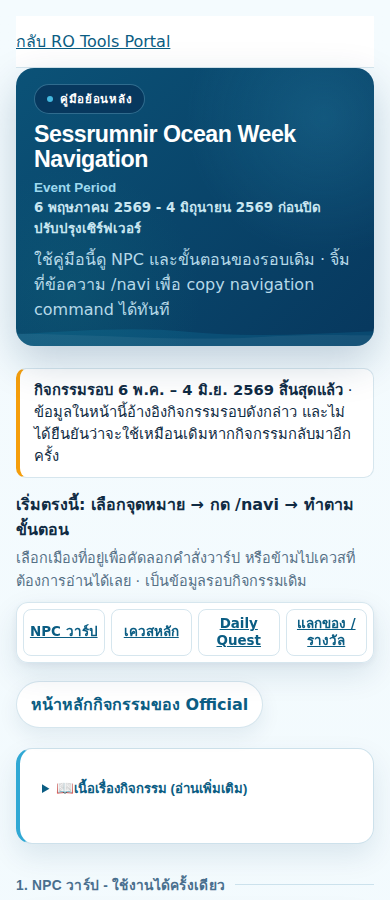
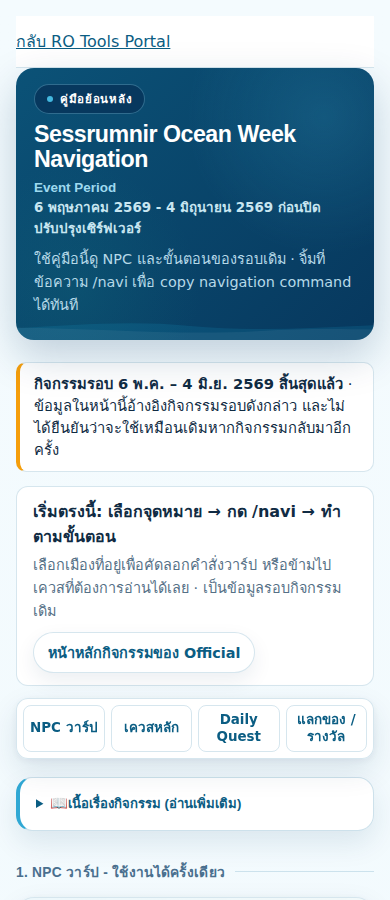
Tidy start area: one start panel, full-width category bar, two-level hero text, slim closed story card
Presentation only; guide data, /navi commands and scripts unchanged.

Changed region(s): [[0.0308, 0.2489, 0.9538, 1.0], [0.0308, 0.3422, 0.0615, 0.3733]]

diff --git a/docs/index.html b/docs/index.html
@@ -1468,16 +1468,24 @@
     .archive-notice strong { font-weight: 800; }
 
     /* start cue: short intro, then a sticky category bar that stays reachable on the long page */
-    .first-run-intro { margin: 0 0 10px; }
+    .start-panel { display: flex; align-items: center; justify-content: space-between; gap: 14px; margin: 0 0 12px; padding: 12px 16px; border: 1px solid var(--line); border-radius: 12px; background: var(--card); }
     .first-run-intro strong { display: block; color: var(--ink); }
     .first-run-intro p { margin: 4px 0 0; color: var(--muted); font-size: .9rem; }
-    nav.first-run-jumps { position: sticky; top: 0; z-index: 20; display: flex; gap: 8px; margin: 0 0 16px; padding: 8px 10px; overflow-x: auto; border: 1px solid var(--line); border-radius: 12px; background: rgba(255, 255, 255, .96); box-shadow: var(--shadow); -webkit-overflow-scrolling: touch; }
-    nav.first-run-jumps a { flex: 0 0 auto; white-space: nowrap; }
+    .start-panel .event-link { flex: 0 0 auto; padding: 8px 14px; font-size: .9rem; white-space: nowrap; }
+    nav.first-run-jumps { position: sticky; top: 0; z-index: 20; display: grid; grid-template-columns: repeat(4, minmax(0, 1fr)); gap: 8px; margin: 0 0 18px; padding: 8px; border: 1px solid var(--line); border-radius: 12px; background: rgba(255, 255, 255, .96); box-shadow: var(--shadow); }
+    nav.first-run-jumps a { justify-content: center; text-align: center; text-decoration: none; }
+    nav.first-run-jumps a:hover { background: var(--ocean-soft); }
     .section-title[id], [id^="ocean-"] { scroll-margin-top: 84px; }
     @media (max-width: 520px) {
-      nav.first-run-jumps { display: grid; grid-template-columns: repeat(4, minmax(0, 1fr)); gap: 6px; padding: 6px; overflow: visible; }
-      nav.first-run-jumps a { flex: none; min-width: 0; justify-content: center; padding: 6px 4px; font-size: .84rem; line-height: 1.2; text-align: center; white-space: normal; }
+      .start-panel { flex-direction: column; align-items: flex-start; gap: 10px; }
+      nav.first-run-jumps { gap: 6px; padding: 6px; }
+      nav.first-run-jumps a { min-width: 0; padding: 6px 4px; font-size: .84rem; line-height: 1.2; }
     }
+
+    /* hero: one subtitle size; closed story card is a slim row */
+    header .subtitle { font-size: .9rem; }
+    .event-story:not([open]) { padding: 4px 16px; }
+    .event-story:not([open]) .event-story-label { margin-bottom: 0; }
   </style>
 </head>
 <body>
@@ -1497,17 +1505,16 @@
 
     <p class="archive-notice"><strong>กิจกรรมรอบ 6 พ.ค. – 4 มิ.ย. 2569 สิ้นสุดแล้ว</strong> · ข้อมูลในหน้านี้อ้างอิงกิจกรรมรอบดังกล่าว และไม่ได้ยืนยันว่าจะใช้เหมือนเดิมหากกิจกรรมกลับมาอีกครั้ง</p>
 
-    <div class="first-run-intro">
-      <strong>เริ่มตรงนี้: เลือกจุดหมาย → กด /navi → ทำตามขั้นตอน</strong>
-      <p>เลือกเมืองที่อยู่เพื่อคัดลอกคำสั่งวาร์ป หรือข้ามไปเควสที่ต้องการอ่านได้เลย · เป็นข้อมูลรอบกิจกรรมเดิม</p>
+    <div class="start-panel">
+      <div class="first-run-intro">
+        <strong>เริ่มตรงนี้: เลือกจุดหมาย → กด /navi → ทำตามขั้นตอน</strong>
+        <p>เลือกเมืองที่อยู่เพื่อคัดลอกคำสั่งวาร์ป หรือข้ามไปเควสที่ต้องการอ่านได้เลย · เป็นข้อมูลรอบกิจกรรมเดิม</p>
+      </div>
+      <a class="event-link" href="https://ro.gnjoy.in.th/sessrumnir-ocean-week-event/" target="_blank" rel="noopener noreferrer">หน้าหลักกิจกรรมของ Official</a>
     </div>
     <nav class="first-run-jumps" aria-label="เริ่มใช้คู่มือ">
       <a href="#ocean-warp">NPC วาร์ป</a><a href="#ocean-main-quest">เควสหลัก</a><a href="#ocean-daily">Daily Quest</a><a href="#ocean-exchange">แลกของ / รางวัล</a>
     </nav>
-
-    <div class="mini-actions">
-      <a class="event-link" href="https://ro.gnjoy.in.th/sessrumnir-ocean-week-event/" target="_blank" rel="noopener noreferrer">หน้าหลักกิจกรรมของ Official</a>
-    </div>
 
     <details class="event-story first-run-lore">
       <summary class="event-story-label">เนื้อเรื่องกิจกรรม (อ่านเพิ่มเติม)</summary>

diff --git a/qa/ui-polish/ui-polish.css b/qa/ui-polish/ui-polish.css
@@ -14,13 +14,21 @@
     .archive-notice strong { font-weight: 800; }
 
     /* start cue: short intro, then a sticky category bar that stays reachable on the long page */
-    .first-run-intro { margin: 0 0 10px; }
+    .start-panel { display: flex; align-items: center; justify-content: space-between; gap: 14px; margin: 0 0 12px; padding: 12px 16px; border: 1px solid var(--line); border-radius: 12px; background: var(--card); }
     .first-run-intro strong { display: block; color: var(--ink); }
     .first-run-intro p { margin: 4px 0 0; color: var(--muted); font-size: .9rem; }
-    nav.first-run-jumps { position: sticky; top: 0; z-index: 20; display: flex; gap: 8px; margin: 0 0 16px; padding: 8px 10px; overflow-x: auto; border: 1px solid var(--line); border-radius: 12px; background: rgba(255, 255, 255, .96); box-shadow: var(--shadow); -webkit-overflow-scrolling: touch; }
-    nav.first-run-jumps a { flex: 0 0 auto; white-space: nowrap; }
+    .start-panel .event-link { flex: 0 0 auto; padding: 8px 14px; font-size: .9rem; white-space: nowrap; }
+    nav.first-run-jumps { position: sticky; top: 0; z-index: 20; display: grid; grid-template-columns: repeat(4, minmax(0, 1fr)); gap: 8px; margin: 0 0 18px; padding: 8px; border: 1px solid var(--line); border-radius: 12px; background: rgba(255, 255, 255, .96); box-shadow: var(--shadow); }
+    nav.first-run-jumps a { justify-content: center; text-align: center; text-decoration: none; }
+    nav.first-run-jumps a:hover { background: var(--ocean-soft); }
     .section-title[id], [id^="ocean-"] { scroll-margin-top: 84px; }
     @media (max-width: 520px) {
-      nav.first-run-jumps { display: grid; grid-template-columns: repeat(4, minmax(0, 1fr)); gap: 6px; padding: 6px; overflow: visible; }
-      nav.first-run-jumps a { flex: none; min-width: 0; justify-content: center; padding: 6px 4px; font-size: .84rem; line-height: 1.2; text-align: center; white-space: normal; }
+      .start-panel { flex-direction: column; align-items: flex-start; gap: 10px; }
+      nav.first-run-jumps { gap: 6px; padding: 6px; }
+      nav.first-run-jumps a { min-width: 0; padding: 6px 4px; font-size: .84rem; line-height: 1.2; }
     }
+
+    /* hero: one subtitle size; closed story card is a slim row */
+    header .subtitle { font-size: .9rem; }
+    .event-story:not([open]) { padding: 4px 16px; }
+    .event-story:not([open]) .event-story-label { margin-bottom: 0; }

diff --git a/qa/ui-polish/REPORT.md b/qa/ui-polish/REPORT.md
@@ -9,3 +9,9 @@ Presentation only. Guide data, `/navi` commands, scripts and existing styles are
 Tests: `node --test tests/*.test.cjs` 22/22; `ro-suite-nav.browser` 6,238 checks / 0 failures; `nav-alignment.browser` 40 checks; `first-run.browser` PASS (Chromium 1.55.1, local).
 Test edits: archive checks target `.archive-notice` (AA contrast instead of exact bar colours); nav-alignment compares guide-grid geometry/DOM and no longer compares header chrome, which intentionally changed; inventory ignores the new style block and intro chrome.
 Screenshots: `screenshots/before-*` / `after-*`.
+
+## Round 2 (after merge)
+- "เริ่มตรงนี้" and the Official link share one start panel; the four jumps fill the width of the sticky bar on every screen size.
+- Hero has two text levels (subtitle matches the period line); the closed story card is a slim row.
+- Tests: static 22/22; `ro-suite-nav.browser` 6,238 checks / 0 failures; `nav-alignment.browser` and `first-run.browser` pass. `.start-panel` is excluded from the nav-alignment DOM comparison like the other intro chrome.
+- Screenshots: `screenshots/round2-*`.
